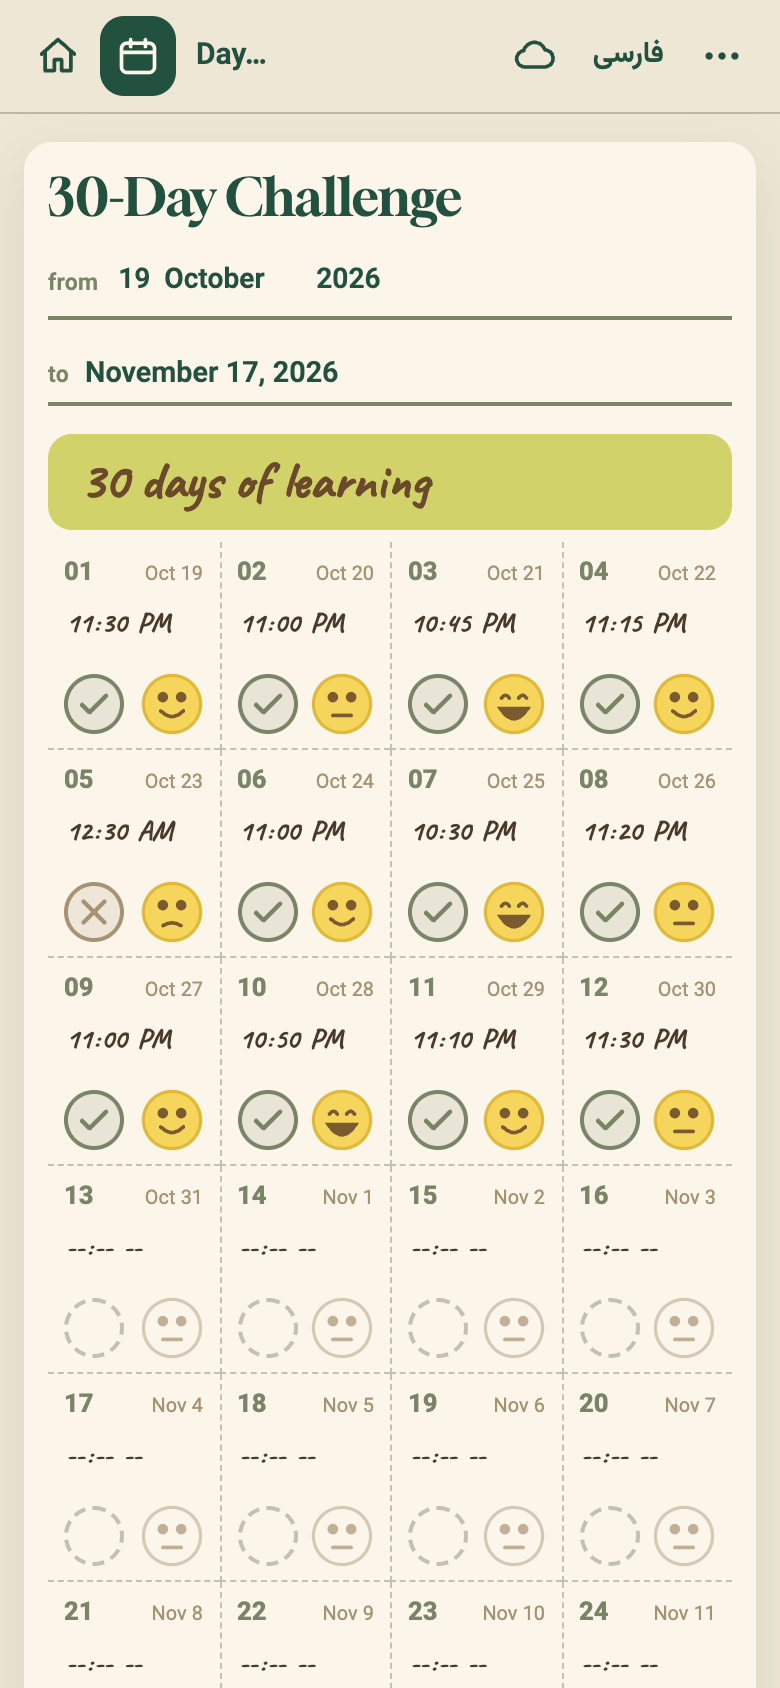
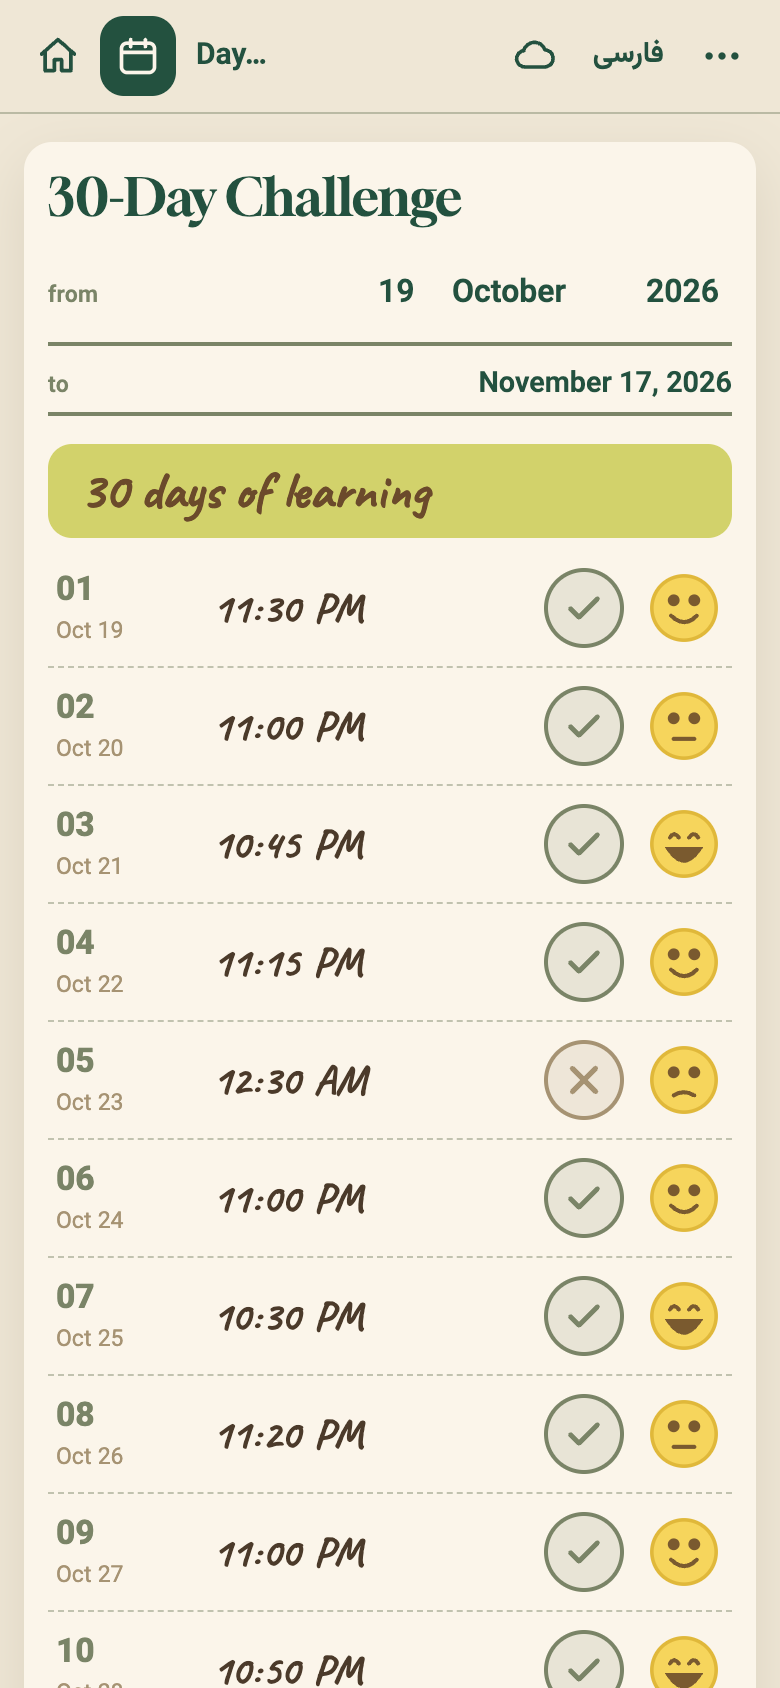
feat: responsive calendar, full-screen cover, print and SEO improvements
- Cover fills the viewport at any size; app frame is a full-height flex column
- Calendar: 7 columns (wide), 5 (tablet), one row per day (phone)
- Day page: fix clipped time fields and wrapping water glasses on narrow columns
- Print: each view fits one A4 landscape page and fills the sheet
- SEO: indexable, meta description, Open Graph/Twitter tags, JSON-LD,
  no-JS fallback, per-view titles and h1, canonical, robots.txt, asset caching
- Refresh README and screenshots; bump service worker cache to v3

diff --git a/public/assets/css/app.css b/public/assets/css/app.css
@@ -23,6 +23,7 @@ html[lang=fa]{--f-display:'Lalezar','Vazirmatn',sans-serif;--f-hand:'Vazirmatn',
 
 *{box-sizing:border-box}
 html{-webkit-text-size-adjust:100%}
+#app{display:flex;flex-direction:column;min-height:100vh;min-height:100dvh}
 body{margin:0;background:var(--bg);color:var(--green);font-family:var(--f-ui);font-size:15px;line-height:1.4;-webkit-tap-highlight-color:transparent}
 a{color:inherit;text-decoration:none}
 button{font:inherit;color:inherit;background:none;border:0;padding:0;cursor:pointer}
@@ -45,8 +46,8 @@ input,textarea,select{font:inherit;color:inherit}
 .daysel.cur select option{color:var(--green)}
 
 /* ---- paper ---- */
-main{padding:14px max(12px,env(safe-area-inset-left)) 40px max(12px,env(safe-area-inset-right))}
-.paper{position:relative;max-width:1200px;margin:0 auto;background:var(--paper);border-radius:18px;padding:clamp(14px,2.4vw,30px);box-shadow:0 1px 0 rgba(0,0,0,.04),0 10px 30px rgba(70,55,30,.12)}
+main{flex:1;display:flex;flex-direction:column;width:100%;padding:14px max(12px,env(safe-area-inset-left)) 14px max(12px,env(safe-area-inset-right))}
+.paper{position:relative;width:100%;max-width:1200px;margin:0 auto;background:var(--paper);border-radius:18px;padding:clamp(14px,2.4vw,30px);box-shadow:0 1px 0 rgba(0,0,0,.04),0 10px 30px rgba(70,55,30,.12)}
 .title{font-family:var(--f-display);font-weight:400;color:var(--green);margin:0;line-height:1.1}
 html[lang=fa] .title{line-height:1.3}
 .lab,.fld label{font-size:.72rem;font-weight:600;color:var(--sage);letter-spacing:.01em}
@@ -58,14 +59,15 @@ input.hand::placeholder,textarea.hand::placeholder{color:color-mix(in srgb,var(-
 input[type=time]{font-family:var(--f-hand);font-variant-numeric:tabular-nums}
 
 /* ---- cover ---- */
-.cover{display:grid;grid-template-columns:1.15fr 1fr;gap:24px;align-items:center;min-height:min(70vh,560px);padding-block:clamp(22px,4vw,48px)}
+.view-cover .paper{flex:1;max-width:none}
+.cover{display:grid;grid-template-columns:1.15fr 1fr;gap:24px;align-items:center;align-content:center;padding:clamp(22px,4vw,64px) clamp(18px,5vw,96px)}
 .swatches{position:absolute;inset-block-start:20px;inset-inline-end:24px;display:flex;gap:6px}
 .swatches i{width:16px;height:16px;border-radius:50%;display:block}
 .kicker{font-family:var(--f-display);font-size:clamp(1.3rem,2.6vw,1.9rem);margin:0 0 6px}
-.big{margin:0;font-family:var(--f-display);font-weight:400;color:var(--green);font-size:clamp(4rem,13vw,10rem);line-height:.95;display:flex;flex-direction:column}
+.big{margin:0;font-family:var(--f-display);font-weight:400;color:var(--green);font-size:clamp(4rem,12vw,13rem);line-height:.95;display:flex;flex-direction:column}
 html[lang=fa] .big{font-size:clamp(3.6rem,12vw,9rem);line-height:1.15}
 .cover-side{display:flex;flex-direction:column;align-items:center;gap:16px}
-.dots{display:grid;grid-template-columns:repeat(7,1fr);gap:clamp(8px,1.6vw,16px);width:min(100%,360px)}
+.dots{display:grid;grid-template-columns:repeat(7,1fr);gap:clamp(8px,1.6vw,20px);width:min(100%,clamp(300px,30vw,520px))}
 .dot{aspect-ratio:1;border-radius:50%;border:2px solid var(--green);display:grid;place-items:center;font-size:.68rem;font-weight:600;color:var(--green);transition:transform .15s}
 .dot span{opacity:.0}
 .dot:hover{transform:scale(1.1);background:color-mix(in srgb,var(--lime) 35%,transparent)}
@@ -148,13 +150,16 @@ html[lang=fa] .big{font-size:clamp(3.6rem,12vw,9rem);line-height:1.15}
 .fld{padding:7px 4px 4px;border-bottom:1px dashed var(--line);display:flex;flex-direction:column;gap:2px}
 .fld.two{flex-direction:row;gap:12px}
 .fld.two>div{flex:1;min-width:0;display:flex;flex-direction:column;gap:2px}
+.col.left{container-type:inline-size}
+@container (max-width:270px){.fld.two{flex-direction:column;gap:6px}}
 .fld .val{font-size:.85rem;font-weight:600;color:var(--ink);min-height:1.5em}
 .fld .val.hand{font-size:var(--hand-size)}
 .fld input.hand{border-bottom:0}
 .moods,.glasses{display:flex;gap:4px;flex-wrap:wrap;padding-block:2px}
+.glasses{gap:2px}
 .mood{border-radius:50%;display:grid;place-items:center;padding:1px}
 .mood:hover svg{transform:scale(1.12)}
-.gl{width:24px;height:30px;display:grid;place-items:center}
+.gl{width:23px;height:30px;display:grid;place-items:center}
 .gl svg{width:20px;height:26px}
 textarea.lined{display:block;width:100%;resize:vertical;border:0!important;line-height:28px!important;background-image:repeating-linear-gradient(to bottom,transparent 0 27px,var(--line) 27px 28px);background-attachment:local;padding:0 4px!important}
 .meals{min-height:140px}
@@ -229,7 +234,7 @@ body,.paper,.topbar{transition:background-color .25s,color .25s}
 .sheet .who{font-weight:800;color:var(--green)}
 
 /* ---- credit ---- */
-.credit{max-width:1200px;margin:-18px auto 0;padding:0 12px calc(20px + env(safe-area-inset-bottom));text-align:center;font-size:.7rem;color:var(--sage);opacity:.65}
+.credit{margin:0 auto;padding:6px 12px calc(16px + env(safe-area-inset-bottom));text-align:center;font-size:.7rem;color:var(--sage);opacity:.65}
 .credit a{text-decoration:underline;text-underline-offset:2px;text-decoration-color:color-mix(in srgb,var(--sage) 50%,transparent)}
 .credit a:hover{opacity:1;color:var(--green)}
 .credit:hover{opacity:1}
@@ -244,17 +249,8 @@ body,.paper,.topbar{transition:background-color .25s,color .25s}
 /* ---- phone ---- */
 @media (max-width:720px){
   .paper{border-radius:14px;padding:14px 12px}
-  .cover{grid-template-columns:1fr;min-height:0;gap:18px;padding-top:56px}
+  .cover{grid-template-columns:1fr;gap:22px;padding:56px 14px 28px}
   .big{font-size:clamp(4.2rem,24vw,7rem)}
-  .cal-grid{grid-template-columns:repeat(4,minmax(0,1fr))}
-  .ctime{font-size:.88rem}
-  .cell{min-height:104px}
-  .cell:nth-child(7n+1){border-inline-start:1px dashed var(--line)}
-  .cell:nth-child(4n+1){border-inline-start:0}
-  .cell.summary{grid-column:1/-1;border-inline-start:0;border-top:1px dashed var(--line)}
-  .cell:nth-last-child(2),.cell:nth-last-child(3){border-bottom:1px dashed var(--line)}
-  .range{width:100%}
-  .rf{flex:1 1 100%}
   .day-top{flex-wrap:wrap}
   .day .banner.grow{flex:1 1 100%;order:5}
   .day-grid{grid-template-columns:1fr}
@@ -268,23 +264,57 @@ body,.paper,.topbar{transition:background-color .25s,color .25s}
   input[type=checkbox]{width:22px;height:22px}
   .task{min-height:40px}.hr{min-height:38px}
 }
-@media (max-width:380px){ .cal-grid{grid-template-columns:repeat(3,minmax(0,1fr))} .cell:nth-child(4n+1){border-inline-start:1px dashed var(--line)} .cell:nth-child(3n+1){border-inline-start:0} }
+@media (max-width:959px){
+  .cal-grid{grid-template-columns:repeat(5,minmax(0,1fr))}
+  .cell{min-height:132px}
+  .cell:nth-child(7n+1){border-inline-start:1px dashed var(--line)}
+  .cell:nth-child(5n+1){border-inline-start:0}
+  .cell.summary{grid-column:1/-1;border-inline-start:0;border-top:1px dashed var(--line);min-height:120px}
+  .cell:nth-last-child(2),.cell:nth-last-child(3){border-bottom:1px dashed var(--line)}
+}
+@media (max-width:599px){
+  .cal-top{align-items:stretch}
+  .range{width:100%;flex-direction:column;gap:10px}
+  .rf{flex:none;width:100%;justify-content:space-between}
+  .dsel{gap:6px}
+  .dsel select{font-size:1rem;padding:8px 6px}
+  .cal-grid{grid-template-columns:1fr}
+  .cal-grid>.cell:nth-child(n){border-inline-start:0;border-bottom:1px dashed var(--line)}
+  .cell{min-height:0;display:grid;grid-template-columns:4.2rem minmax(0,1fr) auto;align-items:center;column-gap:10px;padding:8px 4px}
+  .chead{flex-direction:column;align-items:flex-start;gap:0}
+  .num{font-size:1.05rem}
+  .cdate{font-size:.72rem}
+  .ctime{font-size:1.3rem;min-height:42px}
+  .cbtns{margin-top:0;gap:10px}
+  .stat,.facebtn{width:40px;height:40px}
+  .stat svg{width:20px;height:20px}
+  .facebtn svg{width:36px;height:36px}
+  .cal-grid>.cell.summary{display:flex;flex-direction:column;align-items:stretch;border-bottom:0;padding:14px 4px 4px}
+}
 
 /* ---- print: A4 landscape, one page per view ---- */
 @page{size:A4 landscape;margin:8mm}
 @media print{
   body{background:#fff;-webkit-print-color-adjust:exact;print-color-adjust:exact;font-size:12px}
   .topbar,#toast,.pop,.modal,.credit,.swatches,.nb,.btn,.prog{display:none!important}
-  main{padding:0}
-  .paper{box-shadow:none;border-radius:0;max-width:none;padding:0;background:var(--paper)}
-  .day{zoom:.78}
-  .cal{zoom:.9}
-  .cover{zoom:.9}
+  #app,main{display:block;min-height:0;padding:0}
+  .paper,.view-cover .paper{box-shadow:none;border-radius:0;max-width:none;min-height:0;padding:0;background:var(--paper)}
+  .cover{padding:24px 28px}
+  .paper{padding-inline:2mm}
+  .day{zoom:.9;min-height:calc(186mm / .9)}
+  .cal{zoom:.88;min-height:calc(178mm / .88)}
+  .view-cover .paper.cover{min-height:186mm;align-content:center;padding:0 16mm;gap:16mm}
+  .big{font-size:11rem}
+  .dots{width:90mm}
   .day-grid{grid-template-columns:minmax(210px,.92fr) minmax(190px,1fr) 1.9fr!important}
   .col.right,.col.mid,.col.left{order:0!important;grid-column:auto!important}
   .subjects{grid-template-columns:1fr 1fr!important}
   .cal-grid{grid-template-columns:repeat(7,minmax(0,1fr))!important}
   .cell.summary{grid-column:3/-1!important}
+  .cal-grid>.cell:nth-child(n){border-inline-start:1px dashed var(--line)}
+  .cal-grid>.cell:nth-child(7n+1){border-inline-start:0}
+  .fld.two{flex-direction:row!important}
+  a{text-decoration:none}
   .card,.cell{break-inside:avoid}
   input::placeholder,textarea::placeholder{color:transparent!important}
 }

diff --git a/public/index.html b/public/index.html
@@ -4,22 +4,45 @@
 <meta charset="utf-8">
 <meta name="viewport" content="width=device-width,initial-scale=1,viewport-fit=cover">
 <meta name="theme-color" content="#23513f">
-<meta name="robots" content="noindex,nofollow">
+<meta name="robots" content="index,follow,max-image-preview:large">
+<meta name="description" content="Free 30-day challenge planner: a fillable cover, calendar tracker and 30 daily pages with schedule, mood, water, meals and checklists. English and Farsi (Jalali calendar), works offline, no sign-up, print-ready.">
+<meta name="author" content="mjn">
 <meta name="apple-mobile-web-app-capable" content="yes">
 <meta name="mobile-web-app-capable" content="yes">
 <meta name="apple-mobile-web-app-title" content="Daily Plan">
 <meta name="apple-mobile-web-app-status-bar-style" content="default">
-<title>Daily Plan · 30-day Challenge</title>
+<title>Daily Plan · 30-day Challenge planner (English &amp; فارسی)</title>
+<meta property="og:type" content="website">
+<meta property="og:site_name" content="Daily Plan">
+<meta property="og:title" content="Daily Plan · 30-day Challenge planner">
+<meta property="og:description" content="A fillable 30-day planner with a calendar tracker and 30 daily pages. English and Farsi, offline, no sign-up, print-ready.">
+<meta property="og:image" content="/assets/og.png">
+<meta property="og:image:width" content="1200">
+<meta property="og:image:height" content="630">
+<meta name="twitter:card" content="summary_large_image">
+<meta name="twitter:title" content="Daily Plan · 30-day Challenge planner">
+<meta name="twitter:description" content="A fillable 30-day planner. English and Farsi, offline, no sign-up, print-ready.">
+<meta name="twitter:image" content="/assets/og.png">
 <link rel="manifest" href="/manifest.webmanifest">
 <link rel="icon" href="/icons/icon.svg" type="image/svg+xml">
 <link rel="apple-touch-icon" href="/icons/apple-touch-icon.png">
 <link rel="preload" href="/assets/fonts/vazirmatn-arabic-400-normal.woff2" as="font" type="font/woff2" crossorigin>
 <link rel="stylesheet" href="/assets/css/app.css">
 <script>try{var t=JSON.parse(localStorage.getItem("daily-plan-30:v1")).theme;if(t)document.documentElement.dataset.theme=t}catch(e){}</script>
+<script type="application/ld+json">
+{"@context":"https://schema.org","@type":"WebApplication","name":"Daily Plan · 30-day Challenge","description":"A fillable 30-day challenge planner with a calendar tracker and 30 daily pages. English and Farsi, offline, print-ready.","applicationCategory":"LifestyleApplication","operatingSystem":"Any","inLanguage":["en","fa"],"offers":{"@type":"Offer","price":"0","priceCurrency":"USD"},"author":{"@type":"Person","name":"mjn","url":"https://github.com/mjn81"}}
+</script>
 </head>
 <body>
 <div id="app"></div>
-<noscript>This planner needs JavaScript. / این برنامه به جاوااسکریپت نیاز دارد.</noscript>
+<noscript>
+<main style="max-width:640px;margin:40px auto;padding:0 20px;font-family:system-ui,sans-serif;line-height:1.6;color:#23513f">
+<h1>Daily Plan · 30-day Challenge</h1>
+<p>A fillable 30-day planner: a cover with a progress tracker, a 30-day calendar, and one page for each day with an hourly schedule, mood, water and sleep tracking, meals and four subject checklists. Available in English and Farsi (فارسی) with a Jalali calendar. Works offline, needs no sign-up, and prints on A4.</p>
+<p>This planner needs JavaScript to run. · این برنامه به جاوااسکریپت نیاز دارد.</p>
+<p dir="rtl" lang="fa">برنامه روزانهٔ چالش ۳۰ روزه: جلد، تقویم ۳۰ روزه و یک صفحه برای هر روز، با برنامهٔ ساعتی، حالوهوا، آب، خواب، وعدهها و فهرست کارها.</p>
+</main>
+</noscript>
 <script type="module" src="/assets/js/app.js"></script>
 </body>
 </html>

diff --git a/public/assets/js/app.js b/public/assets/js/app.js
@@ -172,7 +172,7 @@ function calHTML() {
   const to = addDays(state.from, DAYS - 1);
   return `<section class="paper cal">
     <div class="cal-top">
-      <h2 class="title">${esc(t('calTitle'))}</h2>
+      <h1 class="title">${esc(t('calTitle'))}</h1>
       <div class="range">
         <div class="rf"><span class="lab">${esc(t('from'))}</span>${dateSelectsHTML()}</div>
         <div class="rf"><span class="lab">${esc(t('to'))}</span><span class="to">${esc(fmtDate(to, state.lang, state.cal, 'medium'))}</span></div>
@@ -213,7 +213,7 @@ function dayHTML(n) {
   return `<section class="paper day" data-day="${n}">
     <div class="day-top">
       <button class="nb" data-act="go" data-n="${Math.max(1, n - 1)}" ${n === 1 ? 'disabled' : ''} aria-label="${esc(t('prev'))}">${ICON.chevL}</button>
-      <h2 class="title">${esc(t('dayN', { n: num(n) }))}</h2>
+      <h1 class="title">${esc(t('dayN', { n: num(n) }))}</h1>
       <button class="nb" data-act="go" data-n="${Math.min(DAYS, n + 1)}" ${n === DAYS ? 'disabled' : ''} aria-label="${esc(t('next'))}">${ICON.chev}</button>
       <div class="banner grow"><input class="hand" ${B('title')} value="${esc(d.title)}" placeholder="${esc(t('dayTitlePlaceholder'))}" aria-label="${esc(t('dayTitlePlaceholder'))}"></div>
       <button class="stat big ${st}" data-act="status" data-n="${n}" aria-label="${esc(stLabel)}" title="${esc(stLabel)}">${st === 'done' ? ICON.check : st === 'miss' ? ICON.cross : ''}</button>
@@ -274,7 +274,12 @@ function render(keepScroll = false) {
   root.lang = state.lang;
   root.dir = fa() ? 'rtl' : 'ltr';
   applyTheme();
-  document.title = `${t('appName')} · ${t('coverKicker')}`;
+  document.title = current.view === 'day' ? `${t('dayN', { n: num(current.n) })} · ${t('appName')}`
+    : current.view === 'cal' ? `${t('calTitle')} · ${t('navCalendar')} · ${t('appName')}`
+    : `${t('appName')} · ${t('coverKicker')}`;
+  let canon = document.querySelector('link[rel=canonical]');
+  if (!canon) { canon = document.createElement('link'); canon.rel = 'canonical'; document.head.appendChild(canon); }
+  canon.href = location.origin + '/';
   const body = current.view === 'day' ? dayHTML(current.n) : current.view === 'cal' ? calHTML() : coverHTML();
   app.innerHTML = `${navHTML(current.view, current.n)}<main class="view-${current.view}">${body}</main><footer class="credit">${esc(t('madeBy'))} <a href="https://github.com/mjn81" target="_blank" rel="noopener noreferrer">mjn</a></footer><div id="toast" role="status" aria-live="polite"></div>`;
   window.scrollTo(0, keepScroll ? y : 0);

diff --git a/public/sw.js b/public/sw.js
@@ -1,5 +1,5 @@
 // Offline support. Bump VERSION whenever you change files, so installed copies refresh.
-const VERSION = 'v2';
+const VERSION = 'v3';
 const CACHE = `daily-plan-${VERSION}`;
 const SHELL = [
   '/', '/assets/css/app.css',

diff --git a/README.md b/README.md
@@ -22,7 +22,10 @@ optional end-to-end encrypted sync between your devices.
 - **No login.** Open it and write. Everything is saved on the device automatically.
 - **Optional account sync** between phone and computer, end-to-end encrypted.
 - **Offline & installable** (PWA), **print / save as PDF** (A4 landscape), JSON **export / import** backups.
-- Phone friendly, with swipe left/right to change days.
+- **Responsive**: the calendar is 7 columns on desktop, 5 on tablets and one easy-to-tap row per day on phones;
+  the cover fills the whole screen at any size. Swipe left/right on a phone to change days.
+- **Print-ready**: every view (cover, calendar, each day) prints on exactly one A4 landscape page, in your theme's colours.
+- **SEO-friendly**: indexable, with descriptive titles per view, social-preview tags, structured data and a no-JavaScript fallback.
 
 ## Screenshots
 
@@ -60,7 +63,7 @@ Tap a swatch on the cover (or open ⋯ → Theme). The choice is remembered and 
 
 - Everything saves on the device as you type. **⋯ → Export backup** downloads a JSON file;
   **Import backup** restores it (also a way to move data without an account).
-- **Print / Save as PDF** is in the same menu.
+- **Print / Save as PDF** is in the same menu: one A4 landscape page per view. In the print dialog, keep *Background graphics* on (Chrome does this automatically) and set margins to *Default*.
 - iPhone: Safari → Share → *Add to Home Screen*. Android / desktop Chrome: *Install app*.
 - Language toggle (فارسی / EN) is in the top bar; calendar system (Jalali / Gregorian) is in ⋯.
 
